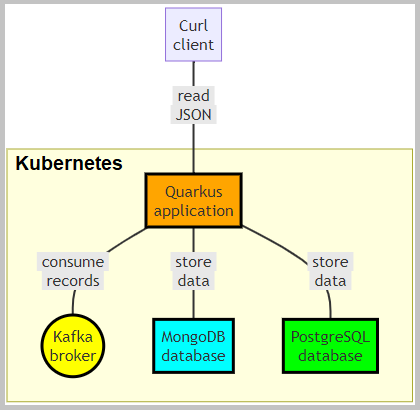
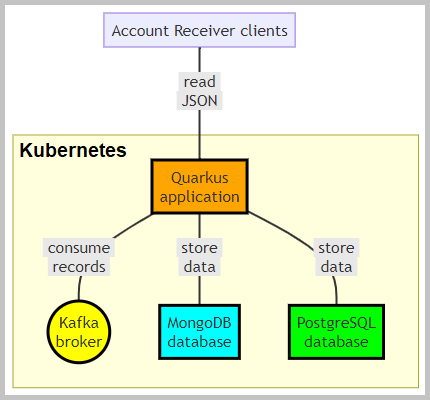
-

Changed region(s): [[0.0, 0.0, 0.9905, 0.99]]

diff --git a/docs/000-r-e-a-d-m-e.html b/docs/000-r-e-a-d-m-e.html
@@ -12,20 +12,16 @@ Topics: Kubernetes ● Docker ● Quarkus ● Kafka ● MongoDB ● PostgreSQL
 </P>
 
 <H3>Research the Kubernetes and the Quarkus</H3>
-<IMG src="images/MermaidFlowchart1.png" height="410" width="420"/>
+<IMG src="images/MermaidFlowchart1.png" height="400" width="430"/>
+
 <P>
 The Account Receiver is implemented as a Quarkus application with Kafka consumer and REST endpoints.
 </P>
 <P>
-The big Kafka record lists are fast consumed and stored in the MongoDB document database. 
+Big Kafka record lists are fast consumed and stored in the MongoDB document database. 
 <IMG src="images/MermaidFlowchart2.png" height="75" width="485"/><br>
 <img src="images/blackArrowUp.png">
-<I>The data caching strategy implemented in Account Receiver.</I>
-</P>
-<P>
-<IMG src="images/MermaidFlowchart3.png" height="135" width="325"/><br>
-<img src="images/blackArrowUp.png">
-<I>The Account Sender generates accounts and feeds them to Kafka broker.</I>
+<I>The data caching strategy implemented in the Account Receiver.</I>
 </P>
 
 <HR/>
@@ -116,6 +112,16 @@ with batch file <I>"07 start Docker Quarkus.bat"</I>.
  start the Docker container with the Account Receiver application.<br>
 <img src="images/orangeSquare.png"><img src="images/spacer-32.png">Before this batch execution the application should not run.<br>
 <img src="images/orangeHR-500.png"></P>
+
+<P>Sequence Diagram 1
+<IMG src="images/MermaidSequenceDiagram1.png" height="50" width="800"/>
+</P>
+<P>Sequence Diagram 2
+<IMG src="images/MermaidSequenceDiagram2.png" height="50" width="800"/>
+</P>
+<P>Sequence Diagram 3
+<IMG src="images/MermaidSequenceDiagram3.png" height="50" width="800"/>
+</P>
 
 <P><img src="images/greenCircle.png">
 2.1. The web resources were placed in directory 
@@ -215,6 +221,11 @@ For delivering the accounts to Kafka Broker it is responsible the sender applica
 <a href="#top">Back to the top of the page</a>
 <HR/>
 <H3 id="THREE">❸ Account Sender</H3>
+<P>
+<IMG src="images/MermaidFlowchart3.png" height="135" width="325"/><br>
+<img src="images/blackArrowUp.png">
+<I>The Account Sender generates accounts and feeds them to the Kafka broker.</I>
+</P>
 
 <P>
 <img src="images/greenCircle.png">The Java application with Kafka producer running in endless loop. 
@@ -237,8 +248,8 @@ kp.sender.kafka.producers.AccountProducer::produceRecords</a> produces Kafka rec
  call the endpoints on Quarkus server.<br>
 <img src="images/orangeHR-500.png"></P>
 
-<P><img src="images/greenCircle.png"> 4.1. This batch calls the 'read account' endpoint and optionally the 'delete accounts' endpoint. 
-The endpoint 'delete accounts' deletes all data from all databases.<br/>
+<P><img src="images/greenCircle.png"> 4.1. This batch calls the 'read account' endpoint and optionally the 'delete accounts' endpoint.
+The endpoint 'delete accounts' deletes all data from all databases.
 As a result of that action the Account Receiver repeats consuming and processing the Kafka records.
 </P>
 <P>

diff --git a/docs/README.md b/docs/README.md
@@ -12,7 +12,8 @@ Topics: Kubernetes ● Docker ● Quarkus ● Kafka ● MongoDB ● PostgreSQL
 </P>
 
 <H3>Research the Kubernetes and the Quarkus</H3>
-<IMG src="images/MermaidFlowchart1.png" height="410" width="420"/>
+<IMG src="images/MermaidFlowchart1.png" height="400" width="430"/>
+
 <P>
 The Account Receiver is implemented as a Quarkus application with Kafka consumer and REST endpoints.
 </P>
@@ -111,6 +112,16 @@ with batch file <I>"07 start Docker Quarkus.bat"</I>.
  start the Docker container with the Account Receiver application.<br>
 <img src="images/orangeSquare.png"><img src="images/spacer-32.png">Before this batch execution the application should not run.<br>
 <img src="images/orangeHR-500.png"></P>
+
+<P>Sequence Diagram 1
+<IMG src="images/MermaidSequenceDiagram1.png" height="50" width="800"/>
+</P>
+<P>Sequence Diagram 2
+<IMG src="images/MermaidSequenceDiagram2.png" height="50" width="800"/>
+</P>
+<P>Sequence Diagram 3
+<IMG src="images/MermaidSequenceDiagram3.png" height="50" width="800"/>
+</P>
 
 <P><img src="images/greenCircle.png">
 2.1. The web resources were placed in directory 
@@ -237,8 +248,8 @@ kp.sender.kafka.producers.AccountProducer::produceRecords</a> produces Kafka rec
  call the endpoints on Quarkus server.<br>
 <img src="images/orangeHR-500.png"></P>
 
-<P><img src="images/greenCircle.png"> 4.1. This batch calls the 'read account' endpoint and optionally the 'delete accounts' endpoint. 
-The endpoint 'delete accounts' deletes all data from all databases.<br/>
+<P><img src="images/greenCircle.png"> 4.1. This batch calls the 'read account' endpoint and optionally the 'delete accounts' endpoint.
+The endpoint 'delete accounts' deletes all data from all databases.
 As a result of that action the Account Receiver repeats consuming and processing the Kafka records.
 </P>
 <P>

diff --git a/docs/mermaid/flowchart.md b/docs/mermaid/flowchart.md
@@ -1,6 +1,6 @@
 ```mermaid
 flowchart TB
-CU["Curl<br>client"]
+CU["Account Receiver clients"]
 subgraph " "
   QU["Quarkus<br>application"]:::orangeBox
   KA(("Kafka<br>broker")):::yellowBox
